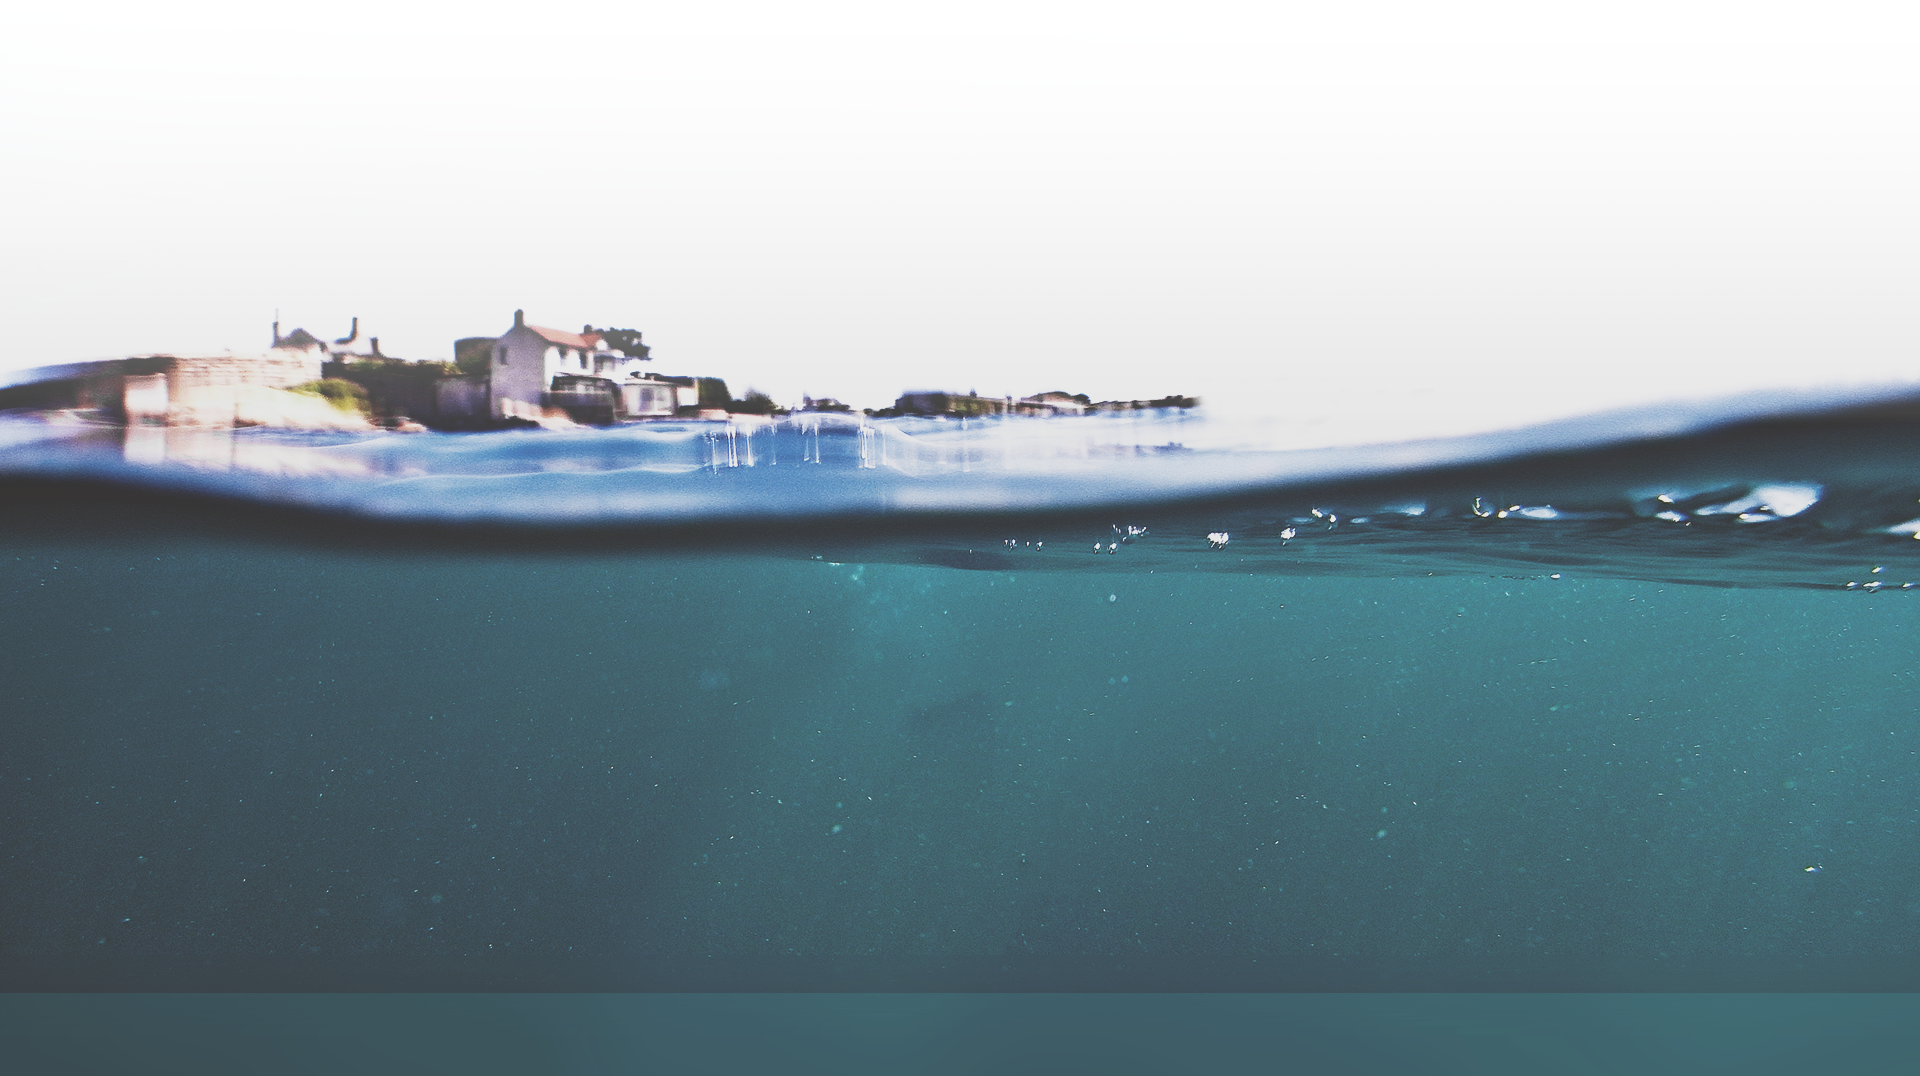
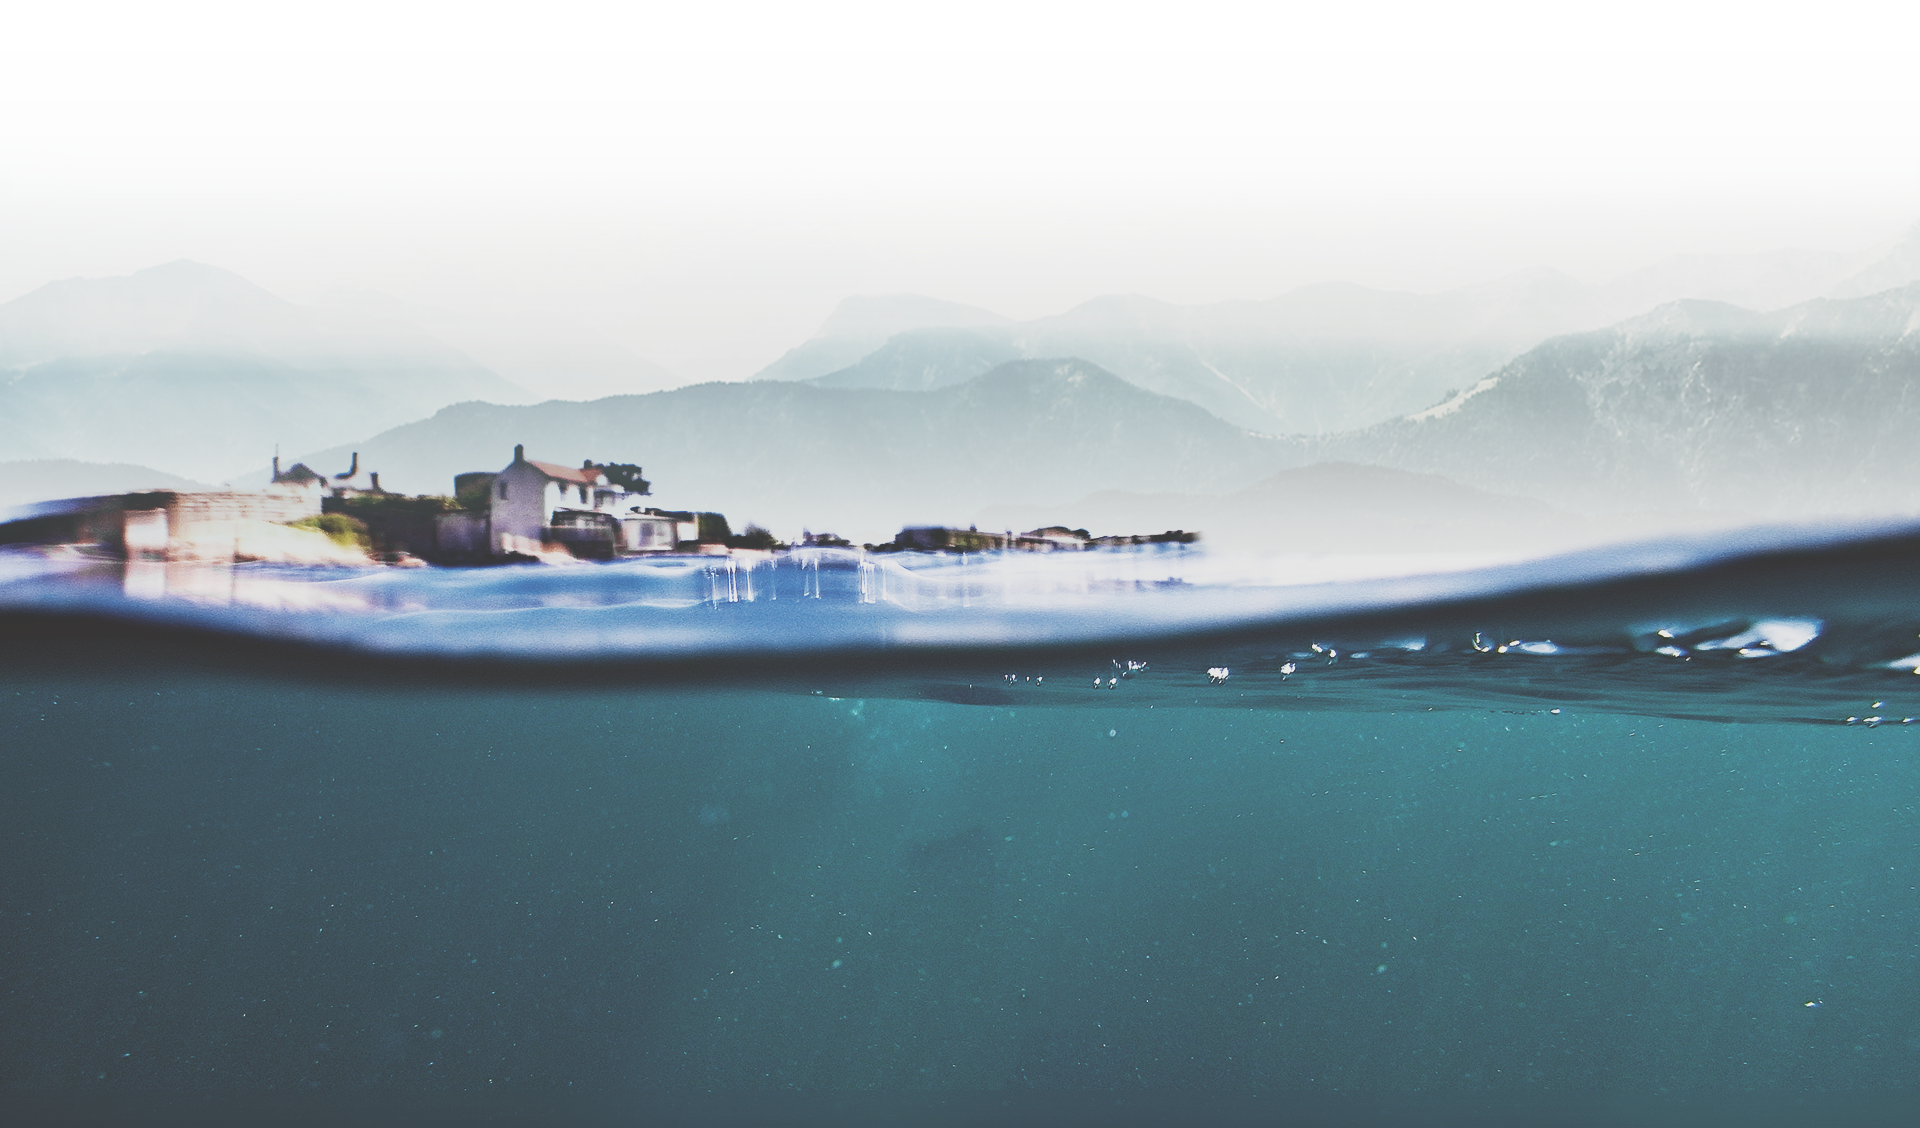
Mountain Done

Changed region(s): [[0.0, 0.2454, 1.0, 0.7054], [0.9375, 0.7974, 0.9688, 0.8281]]

diff --git a/index.html b/index.html
@@ -4,8 +4,9 @@
   <meta charset="UTF-8">
   <meta name="viewport" content="width=device-width, initial-scale=1.0">
   <meta http-equiv="X-UA-Compatible" content="ie=edge">
-  <link href="https://fonts.googleapis.com/css2?family=Open+Sans:ital,wght@0,300;0,700;1,400&family=Raleway:wght@700&display=swap" rel="stylesheet">
   <link rel="stylesheet" href="https://stackpath.bootstrapcdn.com/bootstrap/4.4.1/css/bootstrap.min.css" integrity="sha384-Vkoo8x4CGsO3+Hhxv8T/Q5PaXtkKtu6ug5TOeNV6gBiFeWPGFN9MuhOf23Q9Ifjh" crossorigin="anonymous">
+  <link href="https://fonts.googleapis.com/css2?family=Open+Sans:ital,wght@0,300;0,700;1,400&family=Raleway:wght@700&display=swap" rel="stylesheet">
+  <link rel="stylesheet" href="https://maxcdn.bootstrapcdn.com/font-awesome/4.7.0/css/font-awesome.min.css">
   <link rel="stylesheet" href="css/style.css">
   <title>MountainTravel</title>
 </head>
@@ -386,7 +387,6 @@
   </x:xmpmeta><?xpacket end="w"?></metadata>
[1 lines of base64/hex data omitted]
 </svg>
-
 </div>
 </div>
 </div>
@@ -420,26 +420,44 @@
         </div>
       </div>
     </div>
-
-
-<div class="row form-contact">
-  <div class="col-md-6 text-center m-auto contact">
-    <h3 class="contact-title">CONTACTS</h3>
-    <p class="contact-subtitle">Sign up for our newsletter to receive updates</p>
-    <form>
-      <input class="contact-input" type="text" name="name" placeholder="Name" required>
-      <input class="contact-input" type="tel" name="tel" placeholder="Phone" required>
-      <input class="contact-input" type="email" name="email" placeholder="Email" required>
-      <button class="contact-button btn main-button" type="button">send</button>
-    </form>
-  </div>
-</div>
-
-
-
+    <div class="row form-contact">
+      <div class="col-md-6 text-center m-auto contact">
+        <h3 class="contact-title">CONTACTS</h3>
+        <p class="contact-subtitle">Sign up for our newsletter to receive updates</p>
+        <form>
+          <input class="contact-input" type="text" name="name" placeholder="Name" required>
+          <input class="contact-input" type="tel" name="tel" placeholder="Phone" required>
+          <input class="contact-input" type="email" name="email" placeholder="Email" required>
+          <button class="contact-button btn main-button" type="button">send</button>
+        </form>
+      </div>
+    </div>
   </div>
 </section>
-
+<!-- Footer Section -->
+<footer>
+  <div class="container">
+    <div class="row footer-row">
+      <div class="col-md-3">
+        <p>All rights reserved 2020</p>
+      </div>
+      <div class="col-md-2">
+        <a href="#"><div class="footer-social">
+          <i class="fa fa-twitter footer-social-twiter footer-social-link"></i>
+        </div></a>
+        <a href="#"><div class="footer-social">
+          <i class="fa fa-facebook footer-social-facebook footer-social-link"></i>
+        </div></a>
+        <a href="#"><div class="footer-social">
+          <i class="fa fa-vk footer-social-vk footer-social-link"></i>
+        </div></a>
+      </div>
+      <div class="col-md-2 footer-phone">
+        <p>1 234 243 123</p>
+      </div>
+    </div>
+  </div>
+</footer>
 </body>
 <script src="https://code.jquery.com/jquery-3.3.1.slim.min.js" integrity="sha384-q8i/X+965DzO0rT7abK41JStQIAqVgRVzpbzo5smXKp4YfRvH+8abtTE1Pi6jizo" crossorigin="anonymous"></script>
 <script src="https://stackpath.bootstrapcdn.com/bootstrap/4.3.1/js/bootstrap.min.js" integrity="sha384-JjSmVgyd0p3pXB1rRibZUAYoIIy6OrQ6VrjIEaFf/nJGzIxFDsf4x0xIM+B07jRM" crossorigin="anonymous"></script>

diff --git a/css/style.css b/css/style.css
@@ -408,6 +408,9 @@ header {
   padding: 50px 0 165px;
   background: url('../img/form-bg.png') center bottom no-repeat;
 }
+.footer-row {
+  align-items: center;
+}
 .form-quote {
   font-size: 40px;
 }
@@ -427,11 +430,12 @@ header {
   background: url('../img/avatar2.png') left center no-repeat;
 }
 .form-contact {
-  margin-top: 135px;
+  margin-top: 120px;
+  padding-bottom: 60px;
 }
 .contact {
   padding: 20px 20px;
-  background-color: rgba(255, 255, 255, 0.15);
+  background-color: rgba(255, 255, 255, 0.34);
   border-radius: 5px;
 }
 .contact-title {
@@ -457,4 +461,44 @@ header {
   width: 100%;
   padding: 25px 0;
   margin-bottom: 40px;
+}
+/* Footer Section */
+footer {
+  background-color: #3e5e69;
+  padding: 20px 0;
+}
+footer p {
+  margin: 0;
+}
+.footer-phone {
+  font-weight: 700;
+}
+.footer-row {
+  justify-content: space-between;
+}
+.footer-social {
+  display: inline;
+  margin-right: px;
+  font-size: 20px;
+  text-align: center;
+}
+.footer-social-link {
+  padding: 7px 7px;
+  text-shadow: 2px 2px 5px #474747;
+  color: #fff;
+  transition: all .3s ease;
+}
+.footer-social-twiter {
+  background-color: #36aee3;
+}
+.footer-social-facebook {
+  background-color: #6788ce;
+  padding: 7px 11px;
+}
+.footer-social-vk {
+  background-color: #54769a;
+}
+.footer-social-link:hover {
+  color: #83b7c9;
+  box-shadow: 0 0 5px 1px #83b7c9;
 }
